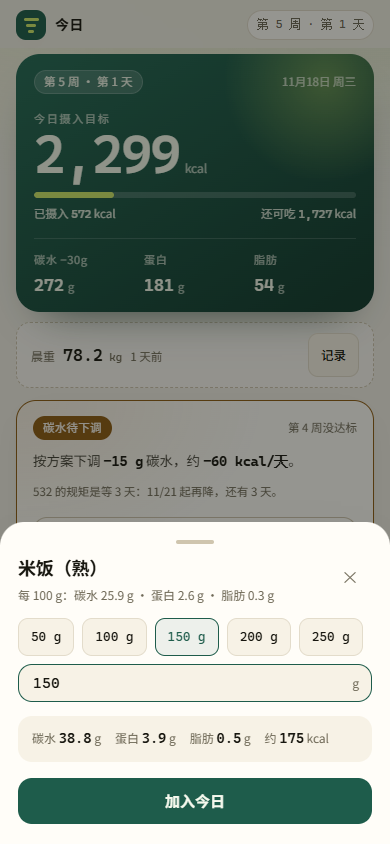
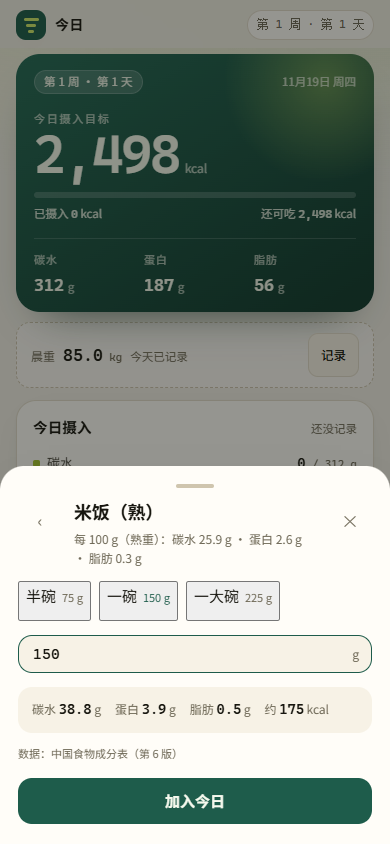
食物数据标注出处与生熟形态，30 项加家用份量，今日记录可点开改克数；新增山松 SD-300 大豆蛋白粉（v24）

diff --git a/assets/app.js b/assets/app.js
@@ -339,9 +339,12 @@
         '<div class="card-head"><h2>今日记录</h2><span class="muted small">' + (entries.length ? entries.length + ' 项' : '') + '</span></div>' +
         (entries.length
           ? '<ul class="loglist">' + entries.map(function (e) {
+              var body = '<b>' + esc(e.name) + '</b>' +
+                '<span>' + (e.grams ? n0(e.grams) + ' g · ' : '') + '碳 ' + n1(e.carb) + ' · 蛋 ' + n1(e.protein) + ' · 脂 ' + n1(e.fat) + '</span>';
               return '<li>' +
-                '<div class="log-main"><b>' + esc(e.name) + '</b>' +
-                '<span>' + (e.grams ? n0(e.grams) + ' g · ' : '') + '碳 ' + n1(e.carb) + ' · 蛋 ' + n1(e.protein) + ' · 脂 ' + n1(e.fat) + '</span></div>' +
+                (e.foodId
+                  ? '<button type="button" class="log-main" data-act="edit-food" data-id="' + e.id + '" data-food="' + e.foodId + '" aria-label="修改 ' + esc(e.name) + ' 的克数">' + body + '</button>'
+                  : '<div class="log-main">' + body + '</div>') +
                 '<button type="button" class="icon-btn" data-act="del-food" data-id="' + e.id + '" aria-label="删除 ' + esc(e.name) + '">✕</button>' +
               '</li>';
             }).join('') + '</ul>'
@@ -1151,18 +1154,28 @@
 
     if (sheet.type === 'food') {
       var f = sheet.food;
-      return '<form data-form="add-food" data-food="' + f.id + '">' +
-        sheetHead(esc(f.name), '每 100 g：碳水 ' + f.carb + ' g · 蛋白 ' + f.protein + ' g · 脂肪 ' + f.fat + ' g', sheet.back) +
+      var basis = f.basis ? '（' + f.basis + '重）' : '';
+      var grams0 = sheet.grams || f.portion;
+      var portionBtns = (f.portions || []).map(function (p) {
+        return '<button type="button" class="gbtn pbtn" data-g="' + p.g + '">' + esc(p.label) + '<i>' + p.g + ' g</i></button>';
+      }).join('');
+      var gramBtns = [50, 100, 150, 200, 250].map(function (g) {
+        return '<button type="button" class="gbtn' + (g === f.portion ? ' is-on' : '') + '" data-g="' + g + '">' + g + ' g</button>';
+      }).join('');
+      var srcTxt = f.src === 'label' ? '数据：产品营养成分表' : '数据：' + C.DATA_SOURCE;
+      return '<form data-form="add-food" data-food="' + f.id + '"' + (sheet.editId ? ' data-edit="' + sheet.editId + '"' : '') + '>' +
+        sheetHead(esc(f.name), '每 100 g' + basis + '：碳水 ' + f.carb + ' g · 蛋白 ' + f.protein + ' g · 脂肪 ' + f.fat + ' g', sheet.back) +
         '<div class="sheet-body">' +
-          '<div class="grams-row">' +
-            [50, 100, 150, 200, 250].map(function (g) {
-              return '<button type="button" class="gbtn' + (g === f.portion ? ' is-on' : '') + '" data-g="' + g + '">' + g + ' g</button>';
-            }).join('') +
-            '<label class="input-wrap"><input id="foodGrams" name="grams" type="number" inputmode="decimal" min="1" max="2000" step="1" value="' + f.portion + '" aria-label="克数"><span class="suffix">g</span></label>' +
+          (portionBtns
+            ? '<div class="portion-row">' + portionBtns + '</div>'
+            : '') +
+          '<div class="grams-row">' + (portionBtns ? '' : gramBtns) +
+            '<label class="input-wrap"><input id="foodGrams" name="grams" type="number" inputmode="decimal" min="1" max="2000" step="1" value="' + grams0 + '" aria-label="克数"><span class="suffix">g</span></label>' +
           '</div>' +
           '<div class="sheet-sum" id="foodSum"></div>' +
+          '<p class="src-note">' + srcTxt + '</p>' +
         '</div>' +
-        '<button class="btn primary block" type="submit">加入今日</button>' +
+        '<button class="btn primary block" type="submit">' + (sheet.editId ? '保存修改' : '加入今日') + '</button>' +
       '</form>';
     }
 
@@ -1176,6 +1189,7 @@
           '<input id="foodSearch" class="field" type="search" placeholder="搜食物：米饭、鸡胸、牛奶…" aria-label="搜索食物" autocomplete="off">' +
           foodGroupChips() +
           '<div id="foodList">' + foodListHtml('', sheet.group) + '</div>' +
+          '<p class="src-note">数据：' + C.DATA_SOURCE + '；标「熟重 / 干重」的按括号里的形态称重。</p>' +
           '<button type="button" class="btn ghost block" data-act="open-custom">找不到？自定义一份</button>' +
         '</div>';
     }
@@ -1351,10 +1365,15 @@
     }
   }
 
-  function openFood(id, fromPicker) {
+  function openFood(id, fromPicker, editId) {
     var f = C.FOODS.filter(function (x) { return x.id === id; })[0];
     if (!f) return;
-    openSheet({ type: 'food', food: f, back: fromPicker ? 'picker' : null });
+    var entry = null;
+    if (editId) {
+      var list = state.foods[C.todayKey()] || [];
+      entry = list.filter(function (x) { return x.id === editId; })[0] || null;
+    }
+    openSheet({ type: 'food', food: f, back: fromPicker ? 'picker' : null, editId: editId, grams: entry ? entry.grams : null });
   }
 
   function foodKcal(f) {
@@ -1511,6 +1530,21 @@
     saveState();
     render();
     toast('已加入 ' + Math.round(grams) + ' g ' + food.name);
+  }
+
+  function updateFood(food, entryId, grams) {
+    var key = C.todayKey();
+    var list = state.foods[key] || [];
+    var e = list.filter(function (x) { return x.id === entryId; })[0];
+    if (!e) { toast('这条记录找不到了'); return; }
+    var m = C.foodMacros(food, grams);
+    e.grams = Math.round(grams);
+    e.carb = m.carb;
+    e.protein = m.protein;
+    e.fat = m.fat;
+    saveState();
+    render();
+    toast('已更新为 ' + Math.round(grams) + ' g');
   }
 
   function settle(week, weight) {
@@ -1720,7 +1754,12 @@
       var food = C.FOODS.filter(function (x) { return x.id === form.dataset.food; })[0];
       var grams = parseFloat(form.grams.value);
       if (!food || !(grams > 0)) { toast('克数填一下'); return; }
+      var editId = form.dataset.edit;
       closeSheet();
+      if (editId) {
+        updateFood(food, editId, grams);
+        return;
+      }
       addFood(food, grams);
       return;
     }
@@ -1773,6 +1812,7 @@
       case 'close-sheet': closeSheet(); break;
       case 'close-modal': closeModal(); break;
       case 'open-food': openFood(el.dataset.food, sheet && sheet.type === 'picker'); break;
+      case 'edit-food': openFood(el.dataset.food, false, el.dataset.id); break;
       case 'open-picker': openSheet({ type: 'picker' }); break;
       case 'open-rules': openSheet({ type: 'rules' }); break;
     case 'rv-prev': reviewWeek = Math.max(1, (reviewWeek == null ? C.weekOf(state.startDate, C.todayKey()).week : reviewWeek) - 1); render({ scroll: true }); break;

diff --git a/assets/core.js b/assets/core.js
@@ -51,13 +51,13 @@
     { g: 'staple', id: 'ricecake', name: '年糕', carb: 35.0, protein: 3.0, fat: 0.5, portion: 100, alt: '江米' },
 
     /* 蛋白 */
-    { g: 'protein', id: 'chicken', name: '鸡胸肉', carb: 0.0, protein: 31.0, fat: 3.6, portion: 150, alt: '鸡胸 鸡肉 鸡脯' },
+    { g: 'protein', id: 'chicken', name: '鸡胸肉（熟）', carb: 0.0, protein: 31.0, fat: 3.6, portion: 150, alt: '鸡胸 鸡肉 鸡脯' },
     { g: 'protein', id: 'chickenthigh', name: '鸡腿肉（去皮）', carb: 0.0, protein: 19.0, fat: 9.0, portion: 150, alt: '鸡腿 琵琶腿' },
-    { g: 'protein', id: 'egg', name: '鸡蛋', carb: 0.7, protein: 13.0, fat: 9.0, portion: 50, alt: '蛋 水煮蛋 煎蛋' },
+    { g: 'protein', id: 'egg', name: '鸡蛋', carb: 2.8, protein: 13.3, fat: 8.8, portion: 50, alt: '蛋 水煮蛋 煎蛋' },
     { g: 'protein', id: 'eggwhite', name: '蛋清', carb: 0.0, protein: 11.0, fat: 0.2, portion: 60, alt: '蛋白 鸡蛋清' },
-    { g: 'protein', id: 'beef', name: '牛肉（瘦）', carb: 0.0, protein: 26.0, fat: 8.0, portion: 150, alt: '牛里脊 牛肉' },
+    { g: 'protein', id: 'beef', name: '牛肉（瘦）', carb: 0.0, protein: 26.0, fat: 6.0, portion: 150, alt: '牛里脊 牛肉' },
     { g: 'protein', id: 'beefmince', name: '牛肉馅', carb: 0.0, protein: 19.0, fat: 13.0, portion: 120, alt: '牛肉末 牛肉饼' },
-    { g: 'protein', id: 'pork', name: '猪里脊', carb: 0.0, protein: 29.0, fat: 6.0, portion: 150, alt: '猪肉 瘦肉 里脊' },
+    { g: 'protein', id: 'pork', name: '猪里脊', carb: 0.0, protein: 26.0, fat: 6.0, portion: 150, alt: '猪肉 瘦肉 里脊' },
     { g: 'protein', id: 'porkbelly', name: '五花肉', carb: 0.0, protein: 9.0, fat: 37.0, portion: 80, alt: '肥肉 三层肉' },
     { g: 'protein', id: 'lamb', name: '羊肉（瘦）', carb: 0.0, protein: 25.0, fat: 8.0, portion: 150, alt: '羊肉 羊腿' },
     { g: 'protein', id: 'duck', name: '鸭肉', carb: 0.0, protein: 19.0, fat: 18.0, portion: 120, alt: '鸭 烤鸭' },
@@ -142,8 +142,52 @@
     { g: 'snack', id: 'burger', name: '汉堡', carb: 25.0, protein: 13.0, fat: 12.0, portion: 200, alt: '汉堡包 牛肉堡' },
     { g: 'snack', id: 'pizza', name: '披萨', carb: 30.0, protein: 11.0, fat: 10.0, portion: 120, alt: '比萨 披萨片' },
     { g: 'snack', id: 'instantnoodle', name: '方便面', carb: 60.0, protein: 9.0, fat: 17.0, portion: 100, alt: '泡面 速食面' },
-    { g: 'snack', id: 'proteinbar', name: '蛋白棒', carb: 40.0, protein: 30.0, fat: 10.0, portion: 60, alt: '能量棒 代餐棒' }
+    { g: 'snack', id: 'proteinbar', name: '蛋白棒', carb: 40.0, protein: 30.0, fat: 10.0, portion: 60, alt: '能量棒 代餐棒' },
+    { g: 'protein', id: 'soyiso', name: '山松 SD-300 大豆蛋白粉', carb: 1.5, protein: 90.7, fat: 0.8, portion: 30, alt: '蛋白粉 大豆分离蛋白 山松 SD300 植物蛋白', src: 'label' }
   ];
+
+  /* 每条数据对应「每 100 g 可食部」；basis 说明称重形态（熟重/干重/生重），src 说明出处 */
+  var DATA_SOURCE = '中国食物成分表（第 6 版）';
+  var FOOD_BASIS = {
+    rice: '熟', congee: '熟', noodle: '熟', ricenoodle: '熟', mantou: '熟', pasta: '干',
+    oats: '干', ricecake: '熟', wholegrain: '即食', bread: '即食', corn: '熟', sweetpot: '蒸熟',
+    potato: '蒸熟', chicken: '熟', egg: '生', beef: '熟', pork: '熟', lamb: '熟', duck: '熟', salmon: '生', shrimp: '生', tofu: '即食',
+    milk: '即食', yogurt: '即食', whey: '干粉', soyiso: '干粉', oil: '即食', almond: '即食',
+    instantnoodle: '干', proteinbar: '即食'
+  };
+  /* 家用份量：把「一碗」「一勺」换成克数，减少目测误差 */
+  var FOOD_PORTIONS = {
+    rice: [{ label: '半碗', g: 75 }, { label: '一碗', g: 150 }, { label: '一大碗', g: 225 }],
+    noodle: [{ label: '小碗', g: 120 }, { label: '一碗', g: 200 }],
+    ricenoodle: [{ label: '一碗', g: 200 }],
+    mantou: [{ label: '半个', g: 50 }, { label: '一个', g: 100 }],
+    bread: [{ label: '一片', g: 40 }],
+    wholegrain: [{ label: '一片', g: 40 }],
+    oats: [{ label: '一勺', g: 15 }, { label: '一包', g: 40 }],
+    congee: [{ label: '一碗', g: 250 }],
+    pasta: [{ label: '一份', g: 80 }],
+    sweetpot: [{ label: '一个', g: 200 }],
+    potato: [{ label: '一个', g: 150 }],
+    corn: [{ label: '一根', g: 200 }],
+    egg: [{ label: '一个', g: 50 }, { label: '两个', g: 100 }],
+    chicken: [{ label: '一小块', g: 100 }, { label: '一块', g: 150 }],
+    beef: [{ label: '一小块', g: 100 }, { label: '一块', g: 150 }],
+    salmon: [{ label: '一块', g: 120 }],
+    tofu: [{ label: '半块', g: 150 }, { label: '一块', g: 300 }],
+    milk: [{ label: '一杯', g: 250 }, { label: '一盒', g: 250 }],
+    yogurt: [{ label: '一杯', g: 150 }],
+    whey: [{ label: '一勺', g: 30 }],
+    soyiso: [{ label: '一勺', g: 30 }, { label: '两勺', g: 60 }],
+    oil: [{ label: '一勺', g: 10 }, { label: '一汤匙', g: 15 }],
+    almond: [{ label: '一小把', g: 20 }],
+    banana: [{ label: '一根', g: 120 }],
+    apple: [{ label: '一个', g: 200 }],
+    instantnoodle: [{ label: '一包', g: 100 }]
+  };
+  FOODS.forEach(function (f) {
+    if (FOOD_BASIS[f.id]) f.basis = FOOD_BASIS[f.id];
+    if (FOOD_PORTIONS[f.id]) f.portions = FOOD_PORTIONS[f.id];
+  });
 
   /* 食物分组，用于选择器里的分区展示 */
   var FOOD_GROUPS = [
@@ -653,6 +697,7 @@
     ACTIVITY_LIST: ACTIVITY_LIST,
     FOODS: FOODS,
     FOOD_GROUPS: FOOD_GROUPS,
+    DATA_SOURCE: DATA_SOURCE,
     WORKOUT_TYPES: WORKOUT_TYPES,
     workoutLabel: workoutLabel,
     addWorkout: addWorkout,

diff --git a/assets/app.css b/assets/app.css
@@ -1352,3 +1352,12 @@ html { font-size: 100%; }
 .rv-bar.is-future .rv-val, .rv-bar.is-future .rv-day { opacity: 0.45; }
 .rv-bar.is-future .rv-goal { opacity: 0.5; }
 .rv-bar.is-future i { background: transparent; }
+
+/* 份量面板：家用份量、编辑记录、数据出处 */
+.portion-row { display: flex; flex-wrap: wrap; gap: 8px; margin-top: 14px; }
+.portion-row .pbtn { display: inline-flex; align-items: baseline; gap: 6px; min-height: 40px; }
+.portion-row .pbtn i { font-style: normal; font-size: 0.6875rem; color: var(--muted); font-variant-numeric: tabular-nums; }
+.portion-row .pbtn.is-on i { color: var(--green-ink); }
+.src-note { margin: 12px 0 0; font-size: 0.6875rem; color: var(--muted); }
+button.log-main { border: 0; background: none; padding: 0; text-align: left; font: inherit; color: inherit; cursor: pointer; }
+button.log-main:active { opacity: 0.7; }

diff --git a/index.html b/index.html
@@ -16,7 +16,7 @@
 <meta name="mobile-web-app-capable" content="yes">
 <meta name="apple-mobile-web-app-status-bar-style" content="default">
 <meta name="apple-mobile-web-app-title" content="532 碳降">
-<link rel="stylesheet" href="assets/app.css?v=20">
+<link rel="stylesheet" href="assets/app.css?v=24">
 </head>
 <body>
 <div class="page">
@@ -177,7 +177,7 @@
 
 <noscript><p class="noscript">这个应用需要开启 JavaScript 才能计算方案。</p></noscript>
 
-<script src="assets/core.js?v=20"></script>
-<script src="assets/app.js?v=20"></script>
+<script src="assets/core.js?v=24"></script>
+<script src="assets/app.js?v=24"></script>
 </body>
 </html>

diff --git a/sw.js b/sw.js
@@ -5,7 +5,7 @@
  *
  * 发版：把下面 V 加 1，并同步改 index.html 里三处 ?v=（app.css / core.js / app.js）。
  */
-var V = '20';
+var V = '24';
 var CACHE = 'carb532-v' + V;
 var SHELL = [
   './',

diff --git a/README.md b/README.md
@@ -41,9 +41,9 @@
 | --- | --- | --- | --- |
 | ![快速添加](screens/10-quick.png) | ![食物选择器](screens/09-picker.png) | ![训练记录](screens/11-workout.png) | ![深色主题](screens/08-dark.png) |
 
-| 食物份量 | 记一次训练 | | |
+| 食物份量 | 记一次训练 | 蛋白粉 | |
 | --- | --- | --- | --- |
-| ![食物份量](screens/07-food-sheet.png) | ![记一次训练](screens/12-workout-sheet.png) | | |
+| ![食物份量](screens/07-food-sheet.png) | ![记一次训练](screens/12-workout-sheet.png) | ![蛋白粉](screens/16-protein.png) | |
 
 ---
 
@@ -51,7 +51,9 @@
 
 底部五个页签：**今日 / 记录 / 回顾 / 方案 / 我的**。
 
-**记一餐**：今日页「快速添加」默认给最近常吃的 6 个食物，点一下选份量就能加；常吃的会自己往前排。要找别的点「全部食物 102 种」，可以按名称或别名搜（如「鸡」「牛奶」「土豆」「拿铁」），也可以按主食 / 蛋白 / 蔬菜 / 水果 / 乳制品 / 坚果油脂 / 零食饮品分组翻；份量表里还有「自定义一份」直接填碳水、蛋白、脂肪。食物库是每 100 g 的营养值（常见近似值），带默认份量和搜索别名，共 102 种。
+**记一餐**：今日页「快速添加」默认给最近常吃的 6 个食物，点一下选份量就能加；常吃的会自己往前排。要找别的点「全部食物 103 种」，可以按名称或别名搜（如「鸡」「牛奶」「土豆」「拿铁」），也可以按主食 / 蛋白 / 蔬菜 / 水果 / 乳制品 / 坚果油脂 / 零食饮品分组翻；份量表里还有「自定义一份」直接填碳水、蛋白、脂肪。
+
+**准确一点**：每条食物都是「每 100 g 可食部」的营养值，来源是《中国食物成分表（第 6 版）》，蛋白粉这类按产品营养成分表标注（山松 SD-300 大豆蛋白粉 90.7 g 蛋白/100 g 已收录）。份量面板会写清称重形态（熟重 / 干重 / 生重），并给出「一碗」「一勺」「一个」这类家用份量——比如米饭的「半碗 75 g / 一碗 150 g / 一大碗 225 g」，比目测准得多。记错克数不用删：在「今日记录」里点那一行，改克数保存即可，总摄入会跟着重算。
 
 **收藏常吃的**：选择器里每行右边有星标，点一下就把这个食物收藏，收藏的会以「收藏 · N 种」置顶，不用每次翻组；再点星即可取消。
 

diff --git a/docs/hig-review.md b/docs/hig-review.md
@@ -213,3 +213,17 @@
 | 近 8 周趋势 | 回顾页底部新增卡片：周末体重折线（SVG，带末点数值）+ 每周平均每日碳水柱（虚线为目标），底部注明「只算有记录的天」并附总训练分钟 | 5 周数据：折线 79.9 → 78.2，柱 258/277/276/265/293，超目标三根为琥珀 |
 
 设计取舍：趋势卡放在页面最底部，因为它是「回头看」而不是「今天做什么」；所有可执行动作仍留在上周卡与「这一周」提示里。
+
+---
+
+## 后续（v24）：食物数据可追溯、家用份量、记录可改
+
+| 改动 | 说明 | 验证 |
+| --- | --- | --- |
+| 数据出处 | 每条食物标注来源：`DATA_SOURCE = '中国食物成分表（第 6 版）'`；蛋白粉这类标 `src: 'label'`（产品营养成分表）。份量面板底部显示「数据：…」 | 米饭面板显示「数据：中国食物成分表（第 6 版）」 |
+| 称重形态 | 新增 `basis`：熟 / 干 / 生 / 蒸熟 / 即食 / 干粉；面板标题显示「每 100 g（熟重）：…」 | 米饭（熟重）、燕麦片（干重）、山松蛋白粉（干粉重） |
+| 家用份量 | 30 项常见食物带 `portions`（半碗 75 g / 一碗 150 g / 一勺 10 g / 一个 50 g…）；有家用份量时不再显示 50–250 g 通用档，避免两套数字打架 | 米饭面板只有「半碗 75 / 一碗 150 / 一大碗 225」+ 克数输入 |
+| 记录可改 | 「今日记录」每行变成按钮，点开同一份量面板，标题按钮变「保存修改」，改完重算并提示「已更新为 N g」 | 150 g → 225 g：当日碳水 38.8 → 58.3 g、热量 175 → 263 kcal |
+| 数值修正 | 鸡蛋碳水 0.7 → 2.8 g、蛋白 13.0 → 13.3 g、脂肪 9.0 → 8.8 g（对齐成分表）；牛肉/猪里脊改按熟重（26 / 6 g）；鸡胸肉标注「（熟）」 | `node test/core.test.cjs` 23 项全过 |
+
+设计取舍：不新增「生重」副本。生了熟重量差一倍的食物（米、面、肉）用 `basis` 标清形态，比维护两套条目更不容易选错；真要生重，可用「自定义一份」。
